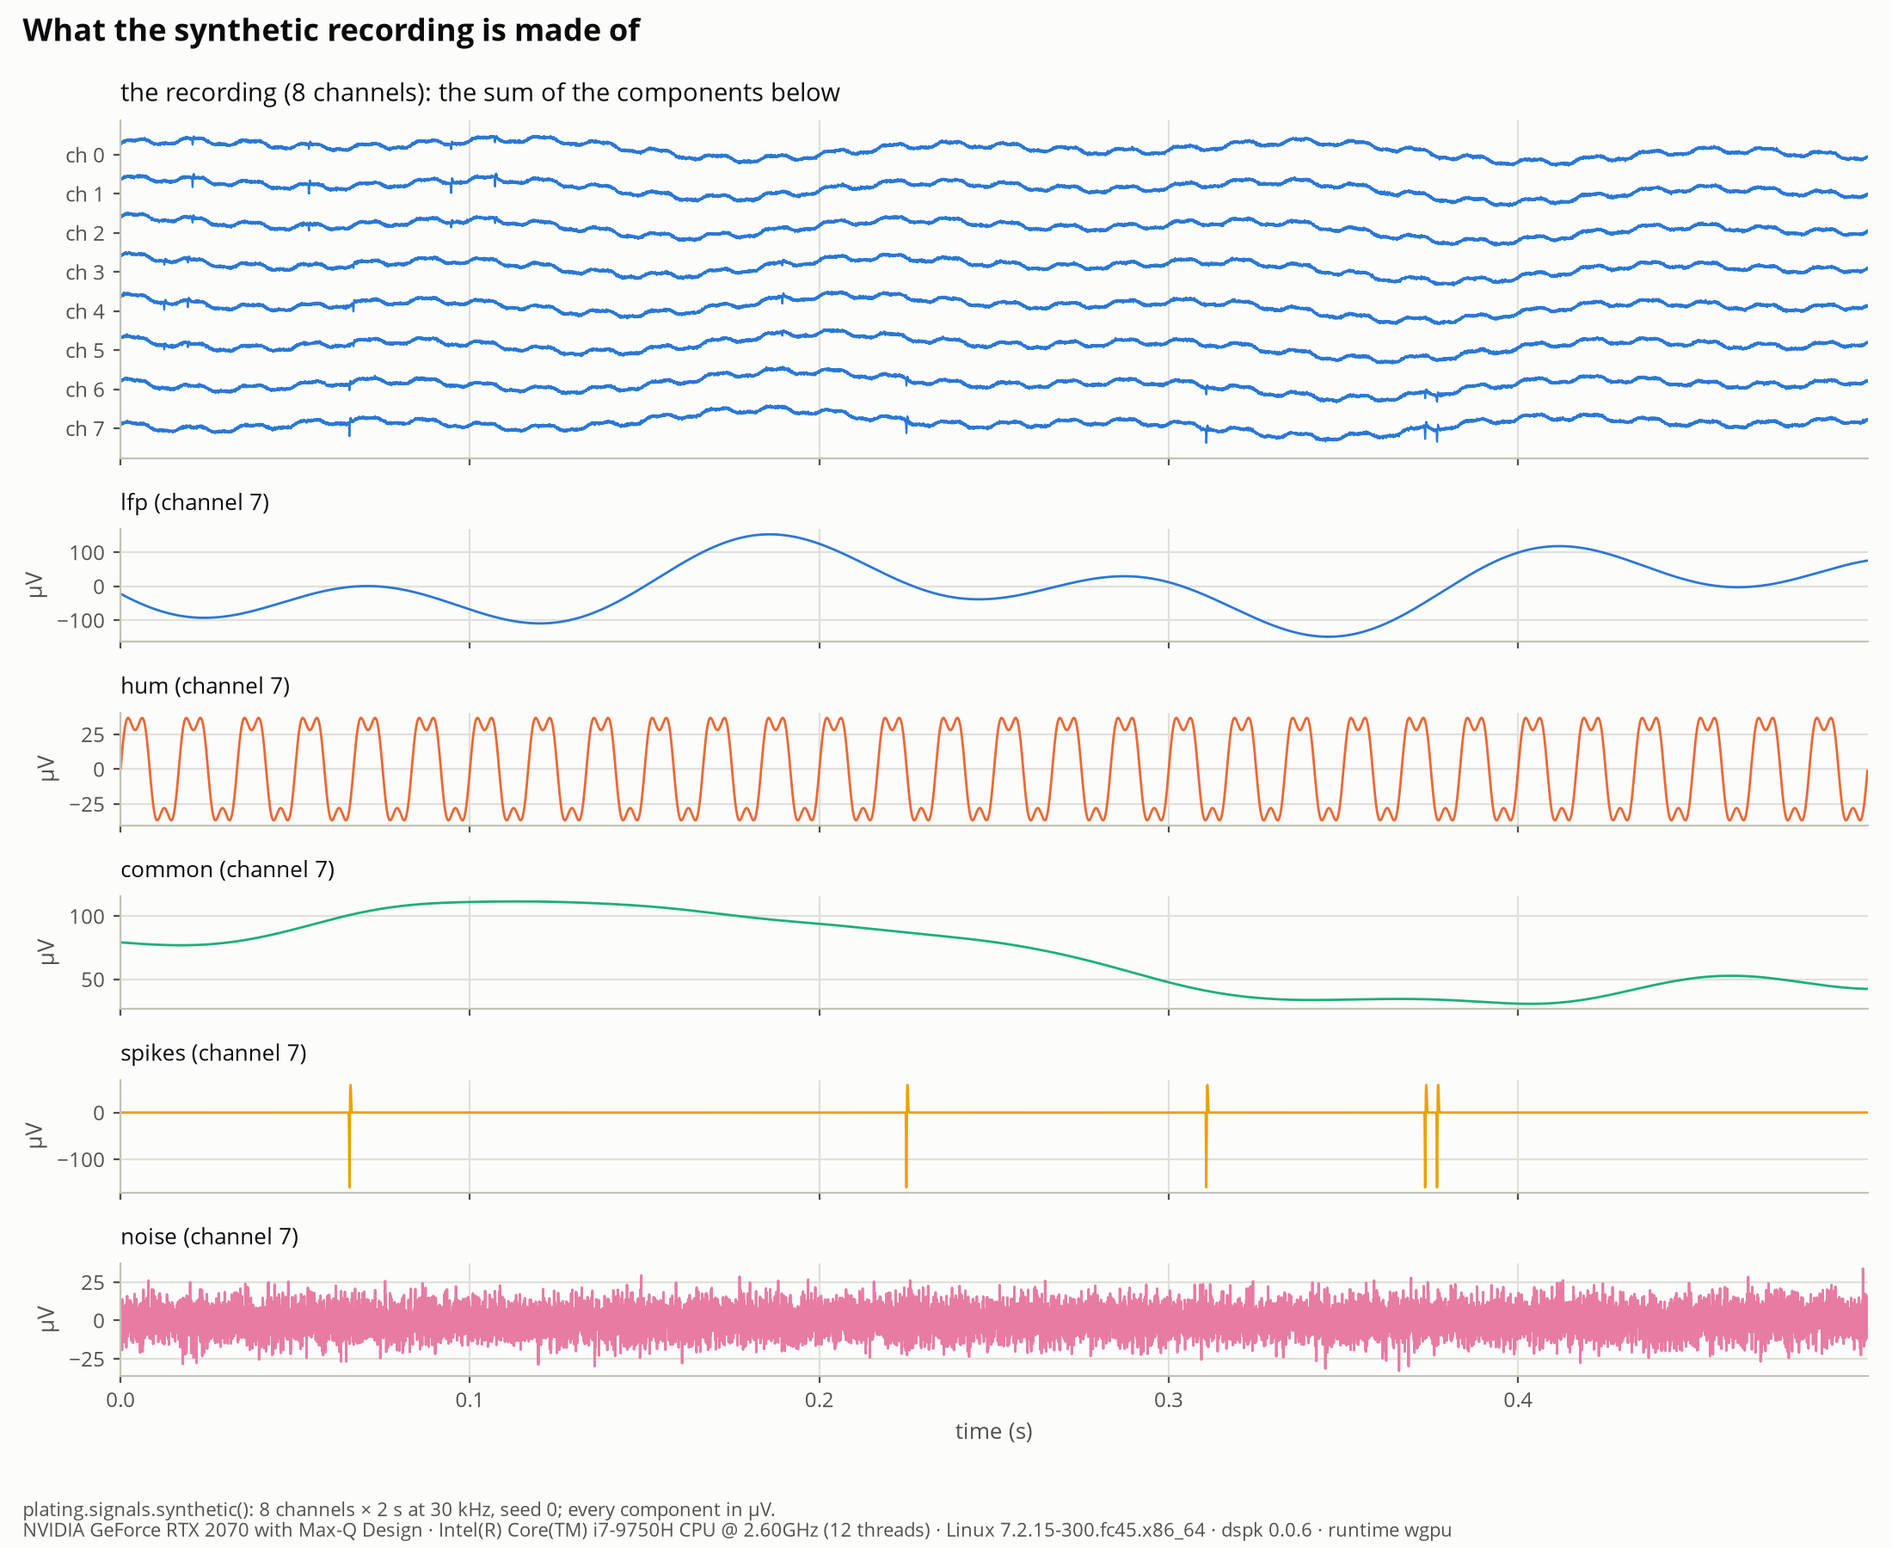
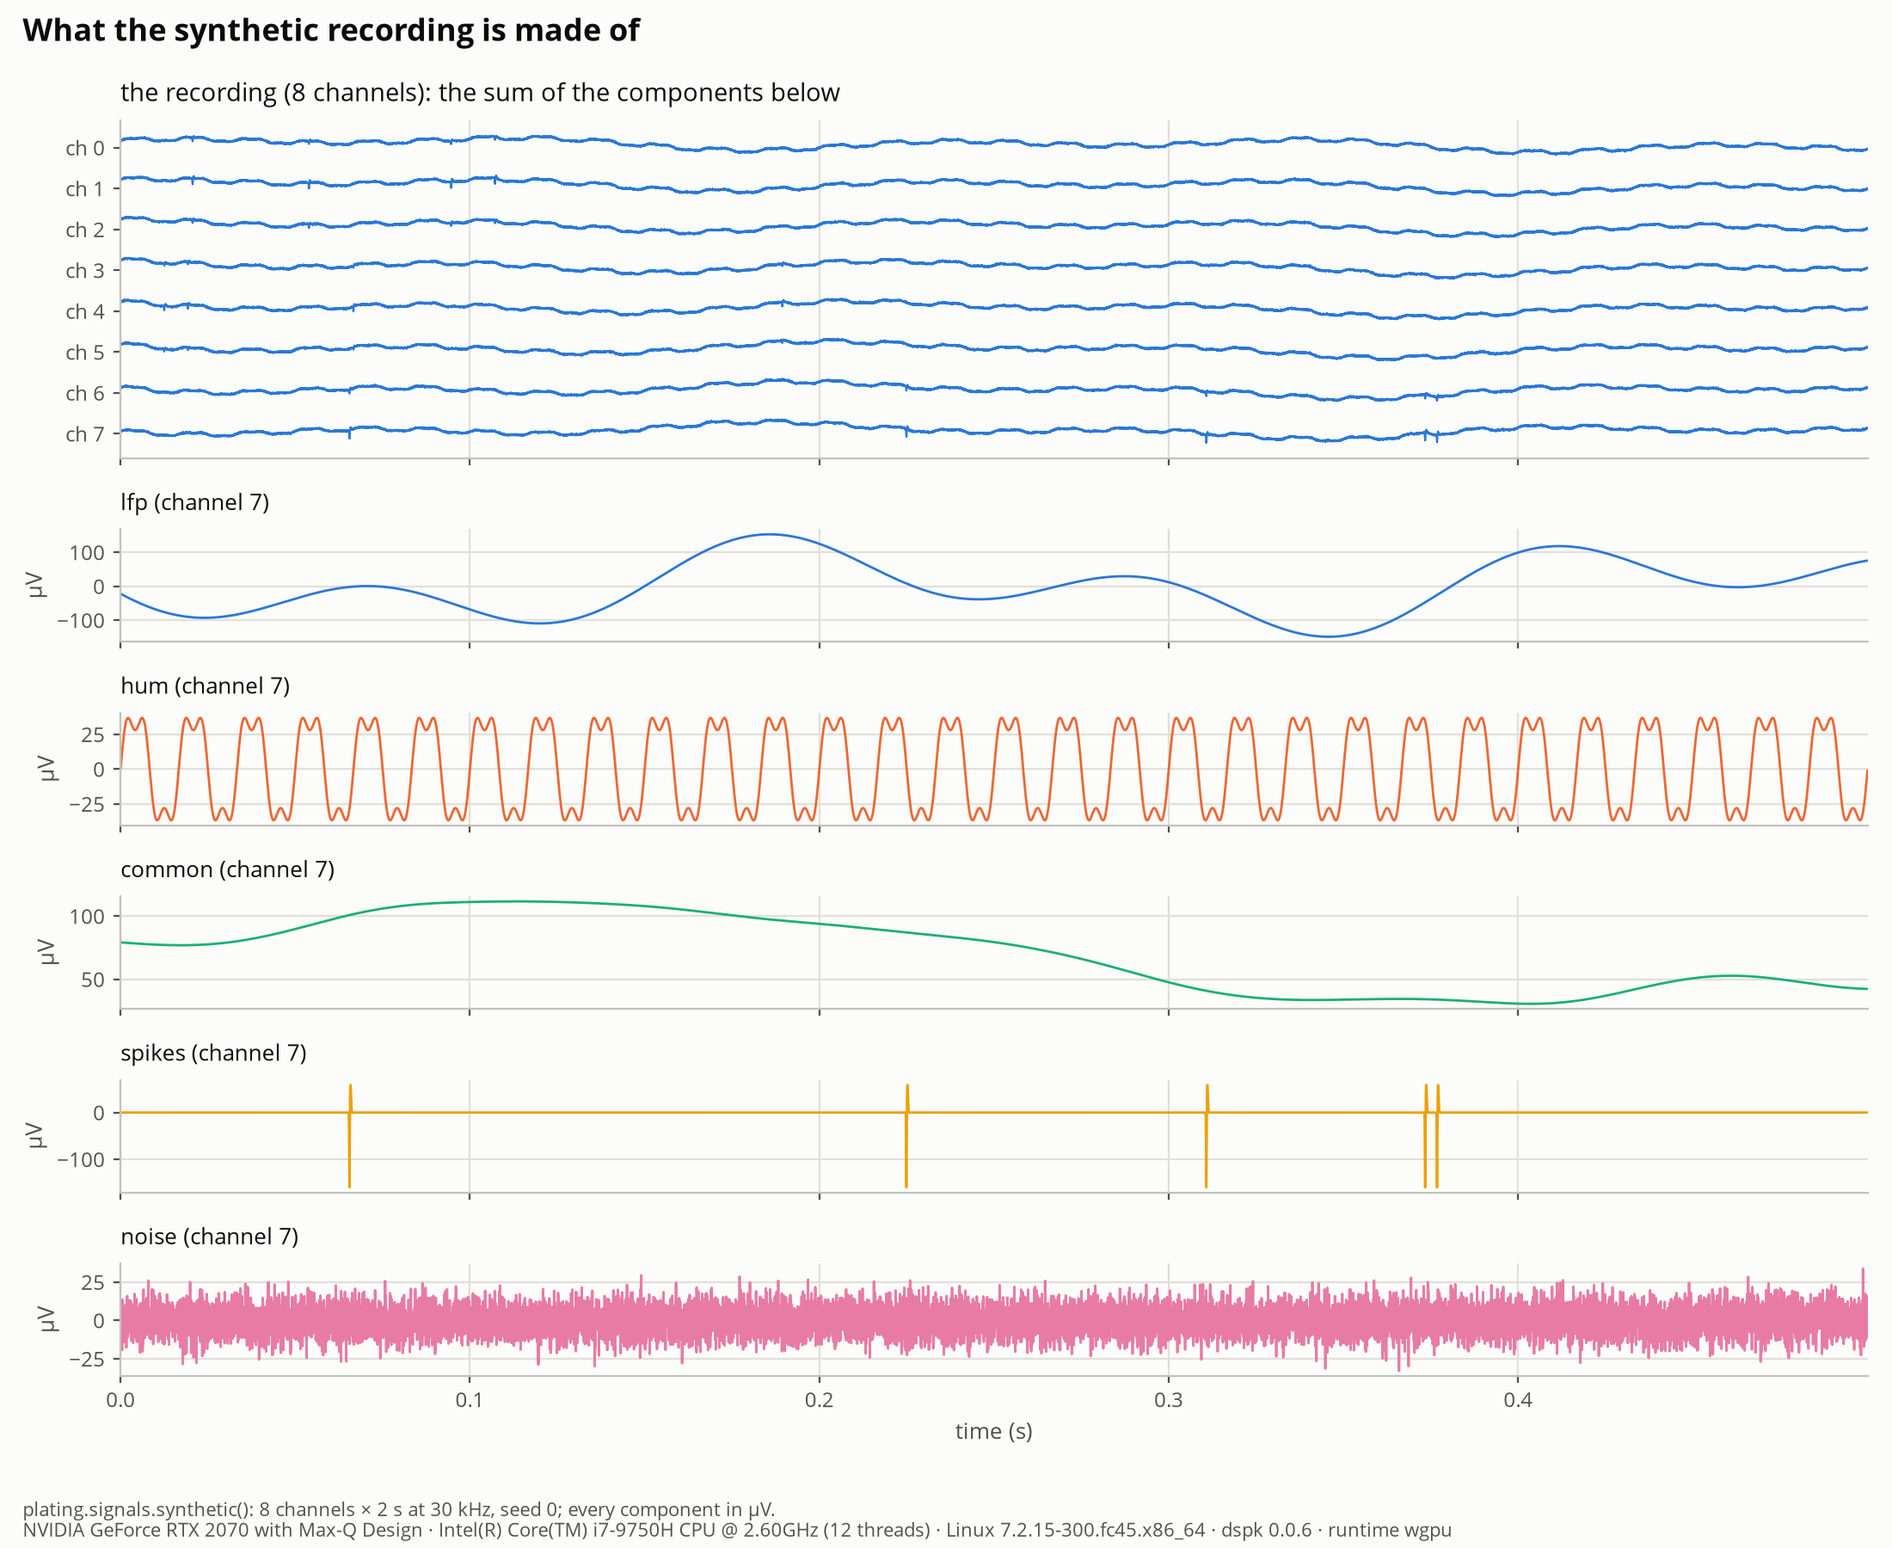
playground: chapter 06 pipelines (a chain on the device, streaming, specs in JSON/TOML, branches); python: branched specs accepted (each branch checked as a chain); plating: glyph fallback, wider trace spacing; the Neuropixels spec and the kept sorter scripts move to 09_sorting

diff --git a/playground/06_pipelines/03_specs.py b/playground/06_pipelines/03_specs.py
@@ -1,0 +1,79 @@
+# %% [markdown]
+# # 06 · Pipelines — 3. Pipelines as data (JSON or TOML)
+# A *spec* names a recording, the operations and the output, as nodes and edges. `dspk.pipeline.run`
+# streams the recording window by window through the device and writes the output, plus the spec
+# itself next to it (`<output>.pipeline.json`, every default written out and the runtime that ran),
+# so every result says how it was made. The same spec runs from Python, from the CLI
+# (`dspk run spec.toml`) and in the app's Pipeline workspace.
+
+# %%
+from pathlib import Path
+import json
+import tempfile
+
+import numpy as np
+
+import dspk
+import plating
+from plating import figures, signals
+
+FIG = Path(__file__).parent / "figures"
+work = Path(tempfile.mkdtemp(prefix="dspk-playground-"))
+s = signals.synthetic()
+dspk.io.write_raw(s.data, work / "recording.bin", s.sample_rate, format="int16", gain=0.195, unit="µV")
+
+spec = {
+    "dspk_pipeline": 1,
+    "name": "notch + band-pass + CMR",
+    "nodes": {
+        "raw": {"op": "read", "path": "recording.bin"},
+        "notch": {"op": "notch", "freq": 60.0, "q": 30.0},
+        "band": {"op": "iir", "band": "bandpass", "cutoff": [300.0, 6000.0]},
+        "cmr": {"op": "cmr"},
+        "out": {"op": "write", "path": "filtered.zarr", "format": "zarr"},
+    },
+    "edges": [["raw", "notch"], ["notch", "band"], ["band", "cmr"], ["cmr", "out"]],
+}
+print(json.dumps(dspk.pipeline.canonical(spec)["nodes"]["band"]))  # every default written out
+(plan,) = dspk.pipeline.plan(spec, work)  # what it would do, without running
+print({k: plan[k] for k in ("mode", "halo", "windows", "stored_upload")})
+(report,) = dspk.pipeline.run(spec, work)
+print({k: report[k] for k in ("mode", "runtime", "windows", "seconds")})
+
+# %% The same spec as TOML (comments allowed) gives the same file
+(work / "spec.toml").write_text('''
+dspk_pipeline = 1
+name = "notch + band-pass + CMR"
+edges = [["raw", "notch"], ["notch", "band"], ["band", "cmr"], ["cmr", "out"]]
+
+[nodes.raw]
+op = "read"
+path = "recording.bin"
+
+[nodes.notch]
+op = "notch"   # mains hum
+freq = 60.0
+q = 30.0
+
+[nodes.band]
+op = "iir"
+band = "bandpass"
+cutoff = [300.0, 6000.0]
+
+[nodes.cmr]
+op = "cmr"
+
+[nodes.out]
+op = "write"
+path = "from_toml.zarr"
+format = "zarr"
+''')
+(report_toml,) = dspk.pipeline.run(work / "spec.toml")
+out = dspk.io.open(report["output"]).read()
+print("TOML equals JSON:", np.array_equal(out, dspk.io.open(report_toml["output"]).read()))
+print("provenance:", report["provenance"])
+
+# %% Figure: the recording and the pipeline's output file
+fig, _ = figures.before_after(dspk.io.open(work / "recording.bin").read(), out, s.sample_rate, title="A spec's output, read back from its file",
+                              labels=("recording.bin (int16)", "filtered.zarr"), duration=0.1)
+plating.save(fig, FIG / "03_specs.png", note=f"dspk.pipeline.run: {plan['windows']} window(s), {report['mode']} mode, on {report['runtime']}; the spec saved beside the output.")

diff --git a/playground/06_pipelines/01_chain_on_device.py b/playground/06_pipelines/01_chain_on_device.py
@@ -1,0 +1,70 @@
+# %% [markdown]
+# # 06 · Pipelines — 1. A chain of stages on the device
+# Calling `dspk.ops` functions one after the other moves the data to the device and back at every
+# step. A `dspk.ops.Pipeline` keeps it there: one upload, every stage, one download, with filter
+# designs and device buffers reused from call to call. On a GPU most of a single call's time is the
+# transfer, so a chain gains the most.
+
+# %%
+from pathlib import Path
+import time
+
+import numpy as np
+from scipy import signal as sp
+
+import dspk
+import plating
+from dspk.ops import Pipeline, stage
+from plating import figures, signals
+
+FIG = Path(__file__).parent / "figures"
+s = signals.synthetic(channels=64, seconds=10.0)
+BAND = (300.0, 6_000.0)
+
+
+def one_by_one(x):
+    y = dspk.ops.filter.notch(x, s.sample_rate, 60.0, 30.0)
+    y = dspk.ops.filter.iir(y, s.sample_rate, "bandpass", BAND)
+    return dspk.ops.spatial.cmr(y)
+
+
+pipe = Pipeline([stage.notch(60.0, 30.0), stage.iir("bandpass", BAND), stage.cmr()], s.sample_rate)
+sos_notch = sp.tf2sos(*sp.iirnotch(60.0, 30.0, fs=s.sample_rate))
+sos_band = sp.butter(5, BAND, "bandpass", fs=s.sample_rate, output="sos")
+
+
+def scipy_chain(x):
+    pad = dspk.ops.filter.settling_samples
+    y = sp.sosfiltfilt(sos_notch, x, axis=1, padtype="odd", padlen=pad(sos_notch))
+    y = sp.sosfiltfilt(sos_band, y, axis=1, padtype="odd", padlen=pad(sos_band))
+    return y - np.median(y, axis=0, keepdims=True)
+
+
+def timed(f):
+    f(s.data)  # warm-up: compiles and tunes the kernels (cached on disk for later runs)
+    start = time.perf_counter()
+    out = f(s.data)
+    return (time.perf_counter() - start) * 1e3, out
+
+
+cases = {"scipy, on the CPU": timed(scipy_chain), "dspk, one call per stage": timed(one_by_one), "dspk, one Pipeline": timed(pipe.process)}
+ref = cases["scipy, on the CPU"][1]
+for name, (ms, out) in cases.items():
+    print(f"{name:26s} {ms:8.1f} ms   max difference from scipy {np.max(np.abs(out - ref)) / np.max(np.abs(ref)):.1e} of the peak")
+
+# %% Figure: time of each way, the same result
+p = plating.theme.palette()
+names = list(cases)
+fig, ax = plating.figure("The same chain, three ways", size=(11.0, 3.2))
+for i, (name, color) in enumerate(zip(names, (p.muted, p.series[1], p.series[0]))):
+    ms = cases[name][0]
+    ax.barh(i, ms, height=0.55, color=color)
+    ax.text(ms + 15, i, figures.ms_label(ms), va="center", fontsize=8.5, color=p.ink)
+ax.set_yticks(range(len(names)))
+ax.set_yticklabels(names)
+ax.invert_yaxis()
+ax.set_xlim(0, max(c[0] for c in cases.values()) * 1.2)
+ax.grid(axis="y", visible=False)
+ax.set_xlabel("milliseconds")
+ax.set_title(f"notch 60 Hz → band-pass {BAND[0]:.0f}–{BAND[1]:.0f} Hz → CMR on {s.channels} channels × {s.samples / s.sample_rate:.0f} s; same output (≤ 1e-5)")
+plating.save(fig, FIG / "01_chain_on_device.png", note="Times from a NumPy array to a NumPy array, after a warm-up call.")

diff --git a/playground/06_pipelines/02_streaming.py b/playground/06_pipelines/02_streaming.py
@@ -1,0 +1,44 @@
+# %% [markdown]
+# # 06 · Pipelines — 2. Streaming: pieces equal the whole
+# A live recording arrives in pieces. With `Pipeline(..., stream=True)` each filter carries its
+# state from one piece to the next, so the pieces, of any lengths, give exactly the result of the
+# whole signal at once. Streaming needs causal filters (`mode="forward"`): a zero-phase filter would
+# need samples that have not arrived yet.
+
+# %%
+from pathlib import Path
+
+import numpy as np
+
+import plating
+from dspk.ops import Pipeline, stage
+from plating import signals
+
+FIG = Path(__file__).parent / "figures"
+s = signals.synthetic()
+stages = [stage.notch(60.0, 30.0, mode="forward"), stage.iir("bandpass", (300.0, 6_000.0), mode="forward"), stage.cmr()]
+
+whole = Pipeline(stages, s.sample_rate, stream=True).process(s.data)
+edges = [0, 1_234, 1_235, 20_000, 33_333, 47_000, s.samples]  # uneven, one of a single sample
+stream = Pipeline(stages, s.sample_rate, stream=True)
+pieces = np.concatenate([stream.process(s.data[:, a:b]) for a, b in zip(edges, edges[1:])], axis=1)
+err = np.max(np.abs(pieces - whole)) / np.max(np.abs(whole))
+print(f"{len(edges) - 1} pieces vs the whole signal: max difference {err:.1e} of the peak")
+
+# %% Figure: around a piece boundary, the streamed result over the whole-signal one
+p = plating.theme.palette()
+ch, at = s.loudest_channel, edges[3]
+win = slice(at - 600, at + 600)
+t = (np.arange(win.start, win.stop) - at) / s.sample_rate * 1e3
+fig, (top, bottom) = plating.figure("Streamed in pieces, equal to the whole", rows=2, size=(11.0, 5.6), sharex=True, height_ratios=[2, 1])
+top.plot(t, whole[ch, win], color=p.muted, linewidth=2.6, label="the whole signal at once")
+top.plot(t, pieces[ch, win], color=p.series[0], linewidth=1.0, label=f"{len(edges) - 1} pieces of uneven length")
+top.axvline(0, color=p.ink2, linewidth=0.8, linestyle=(0, (4, 3)))
+top.set_ylabel("µV")
+top.set_title(f"channel {ch} around a piece boundary (dashed)")
+top.legend(loc="lower left", ncols=2)
+bottom.plot(t, (pieces[ch, win] - whole[ch, win]) * 1e3, color=p.series[0], linewidth=1.0)
+bottom.set_ylabel("nV")
+bottom.set_xlabel("time from the boundary (ms)")
+bottom.set_title(f"difference: at most {err:.0e} of the peak (float32 rounding)")
+plating.save(fig, FIG / "02_streaming.png", note="Pipeline(stream=True): notch 60 Hz, band-pass 300–6000 Hz (both forward), CMR.")

diff --git a/playground/06_pipelines/04_branches.py b/playground/06_pipelines/04_branches.py
@@ -1,0 +1,46 @@
+# %% [markdown]
+# # 06 · Pipelines — 4. Branches: one read, several outputs
+# A spec can branch: one `read`, then paths to several `write`s. The recording is read once, the
+# operations every branch starts with run once (on the device, shared), and each branch then runs
+# only its own. Here: the spike band and the LFP band from one pass over the file.
+
+# %%
+from pathlib import Path
+import tempfile
+
+import dspk
+import plating
+from plating import figures, signals
+
+FIG = Path(__file__).parent / "figures"
+work = Path(tempfile.mkdtemp(prefix="dspk-playground-"))
+s = signals.synthetic()
+dspk.io.write_zarr(s.data, work / "recording.zarr", s.sample_rate, unit="µV")
+
+spec = {
+    "dspk_pipeline": 1,
+    "name": "spikes and LFP from one read",
+    "nodes": {
+        "raw": {"op": "read", "path": "recording.zarr"},
+        "notch": {"op": "notch", "freq": 60.0, "q": 30.0},  # shared by both branches: computed once
+        "spikes_band": {"op": "iir", "band": "bandpass", "cutoff": [300.0, 6000.0]},
+        "cmr": {"op": "cmr"},
+        "lfp_band": {"op": "iir", "band": "lowpass", "cutoff": [300.0]},
+        "spikes": {"op": "write", "path": "spikes.zarr", "format": "zarr"},
+        "lfp": {"op": "write", "path": "lfp.zarr", "format": "zarr"},
+    },
+    "edges": [["raw", "notch"], ["notch", "spikes_band"], ["spikes_band", "cmr"], ["cmr", "spikes"], ["notch", "lfp_band"], ["lfp_band", "lfp"]],
+}
+reports = dspk.pipeline.run(spec, work)
+for r in reports:
+    print(r["output"].name, {k: r[k] for k in ("windows", "seconds")})
+spikes, lfp = dspk.io.open(work / "spikes.zarr").read(), dspk.io.open(work / "lfp.zarr").read()
+
+# %% Figure: the two outputs of one pass
+p = plating.theme.palette()
+fig, (left, right) = plating.figure("One read, two outputs: the spike band and the LFP", cols=2, size=(11.0, 5.4))
+figures.traces(left, spikes, s.sample_rate, duration=0.5, color=p.series[0])
+left.set_title("spikes.zarr: notch → band-pass → CMR")
+figures.traces(right, lfp, s.sample_rate, duration=0.5, color=p.series[1])
+right.set_title("lfp.zarr: notch → low-pass 300 Hz")
+plating.save(fig, FIG / "04_branches.png", note="A branched spec: the notch (shared) runs once per window; each branch runs its own stages.")

diff --git a/bindings/python/tests/test_pipeline_spec.py b/bindings/python/tests/test_pipeline_spec.py
@@ -174,3 +174,23 @@ def test_plan_progress_and_cancel(tmp_path):
 
     with pytest.raises(ZeroDivisionError, match="from the callback"):
         dspk.pipeline.run(s, base_dir=tmp_path, progress=boom)
+
+
+def test_a_branched_spec_writes_every_output(tmp_path, recording):
+    """One read, two writes: both outputs, each equal to its own chain run alone."""
+    branched = {
+        "dspk_pipeline": 1,
+        "nodes": {
+            "in": {"op": "read", "path": "in.bin"},
+            "c": {"op": "car"},
+            "hp": {"op": "iir", "band": "highpass", "cutoff": [300.0], "mode": "forward"},
+            "lp": {"op": "iir", "band": "lowpass", "cutoff": [300.0], "mode": "forward"},
+            "a": {"op": "write", "path": "a.bin"},
+            "b": {"op": "write", "path": "b.bin"},
+        },
+        "edges": [["in", "c"], ["c", "hp"], ["hp", "a"], ["c", "lp"], ["lp", "b"]],
+    }
+    reports = dspk.pipeline.run(branched, base_dir=tmp_path)
+    assert sorted(r["output"].name for r in reports) == ["a.bin", "b.bin"]
+    (alone,) = dspk.pipeline.run(spec(out="alone.bin"), base_dir=tmp_path)
+    np.testing.assert_allclose(dspk.io.open(tmp_path / "a.bin").read(), dspk.io.open(alone["output"]).read(), rtol=1e-5, atol=1e-4)

diff --git a/plating/plating/figures.py b/plating/plating/figures.py
@@ -35,11 +35,11 @@ def _window(data: np.ndarray, sample_rate: float, start: float, duration: float 
 
 def traces(ax, data, sample_rate: float, *, start: float = 0.0, duration: float | None = None, spacing: float | None = None,
            color: str | None = None, label: str | None = None, names: Sequence[str] | None = None, linewidth: float = 0.8) -> float:
-    """Channels stacked top to bottom (channel 0 on top), ``spacing`` apart (default: 6 × the median
-    standard deviation). Returns the spacing used, so a second call can share it."""
+    """Channels stacked top to bottom (channel 0 on top), ``spacing`` apart (default: 10 × the
+    median standard deviation). Returns the spacing used, so a second call can share it."""
     t, x = _window(data, sample_rate, start, duration)
     if spacing is None:
-        spacing = 6.0 * float(np.median(np.std(x, axis=1))) or 1.0
+        spacing = 10.0 * float(np.median(np.std(x, axis=1))) or 1.0
     color = color or theme.palette().series[0]
     for i, row in enumerate(x):
         ax.plot(t, row - i * spacing, color=color, linewidth=linewidth, label=label if i == 0 else None)

diff --git a/bindings/python/dspk-py-core/src/pipeline.rs b/bindings/python/dspk-py-core/src/pipeline.rs
@@ -26,9 +26,12 @@ fn to_py(e: PipelineError) -> PyErr {
 
 fn parse(text: &str, toml: bool) -> PyResult<PipelineSpec> {
     let spec = if toml { PipelineSpec::from_toml(text) } else { PipelineSpec::from_json(text) }.map_err(to_py)?;
-    spec.chain().map_err(to_py)?;
-    for (id, node) in &spec.chain().map_err(to_py)?.stages {
-        node.stage().map_err(|e| PyValueError::new_err(format!("node {id:?}: {e}")))?;
+    // One chain, or a branched spec (one read, several writes): every branch checked as a chain
+    let chains = if spec.writes() > 1 { spec.branches().map_err(to_py)? } else { vec![spec.clone()] };
+    for branch in &chains {
+        for (id, node) in &branch.chain().map_err(to_py)?.stages {
+            node.stage().map_err(|e| PyValueError::new_err(format!("node {id:?}: {e}")))?;
+        }
     }
     Ok(spec)
 }

diff --git a/plating/plating/theme.py b/plating/plating/theme.py
@@ -78,7 +78,8 @@ def use(mode: str = "light") -> Palette:
     p = _current = LIGHT if mode == "light" else DARK
     plt.rcParams.update({
         "figure.facecolor": p.surface, "savefig.facecolor": p.surface, "axes.facecolor": p.surface,
-        "font.family": "sans-serif", "font.sans-serif": SANS, "font.monospace": MONO, "font.size": 9.5,
+        # The family as a list: matplotlib then falls back glyph by glyph (→, ×, µ, …)
+        "font.family": SANS, "font.sans-serif": SANS, "font.monospace": MONO, "font.size": 9.5,
         "text.color": p.ink, "axes.labelcolor": p.ink2, "axes.labelsize": 9.5,
         "axes.titlesize": 10.5, "axes.titlelocation": "left", "axes.titlecolor": p.ink, "axes.titlepad": 8,
         "axes.edgecolor": p.baseline, "axes.linewidth": 0.8,

diff --git a/playground/09_sorting/kilosort4_spikes_figure.py b/playground/09_sorting/kilosort4_spikes_figure.py
@@ -3,7 +3,7 @@
 #
 # Waveforms of the largest *good* units and a raster over the preprocessed trace, from:
 # - the sort: `dspk sort kilosort4 <recording> --probe neuropixels1 -o <phy folder>`;
-# - the trace: the example pipeline (`playground/base/pipelines/neuropixels_preprocess.json`:
+# - the trace: the example pipeline (`playground/09_sorting/specs/neuropixels_preprocess.json`:
 #   band-pass 300–6000 Hz zero phase + common median reference), written as raw or Zarr.
 #
 # Usage: `python kilosort4_spikes_figure.py <phy folder> <preprocessed recording> <out.png>`

diff --git a/playground/01_basics/01_runtimes.py b/playground/01_basics/01_runtimes.py
@@ -40,7 +40,7 @@ p = plating.theme.palette()
 names = list(times)
 ax.barh(range(len(names)), [times[n] for n in names], height=0.5, color=p.series[0])
 for i, n in enumerate(names):
-    ax.text(times[n] * 1.02, i, figures.ms_label(times[n]), va="center", fontsize=8.5, color=p.ink)
+    ax.text(times[n] + 0.01 * max(times.values()), i, figures.ms_label(times[n]), va="center", fontsize=8.5, color=p.ink)
 ax.set_yticks(range(len(names)))
 ax.set_yticklabels(names)
 ax.invert_yaxis()
